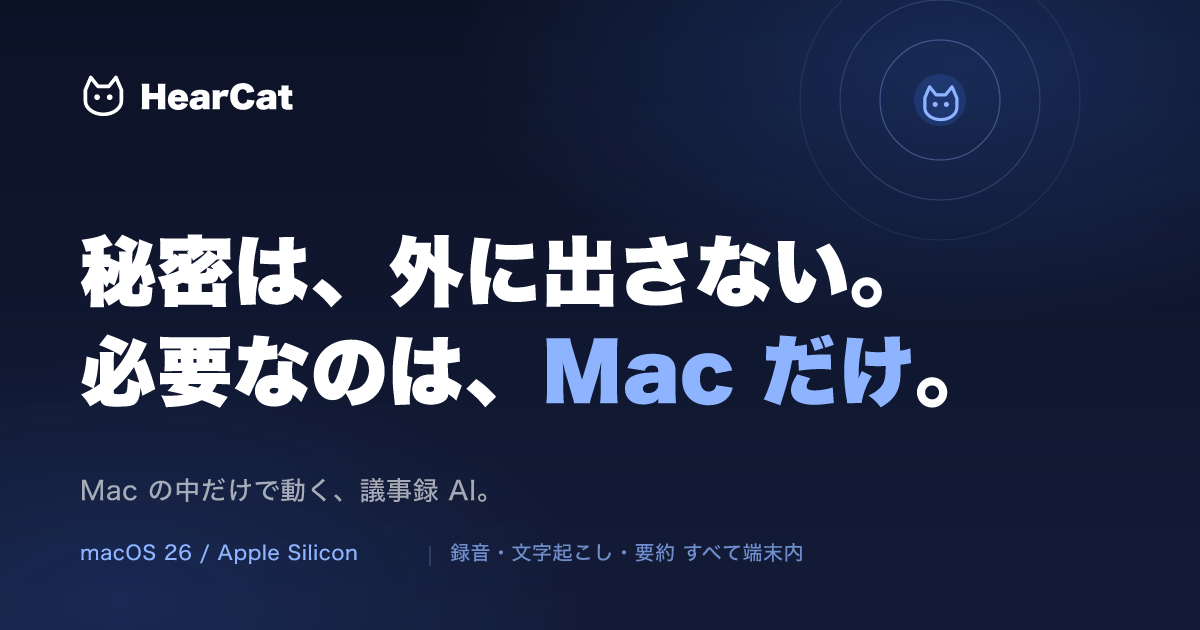
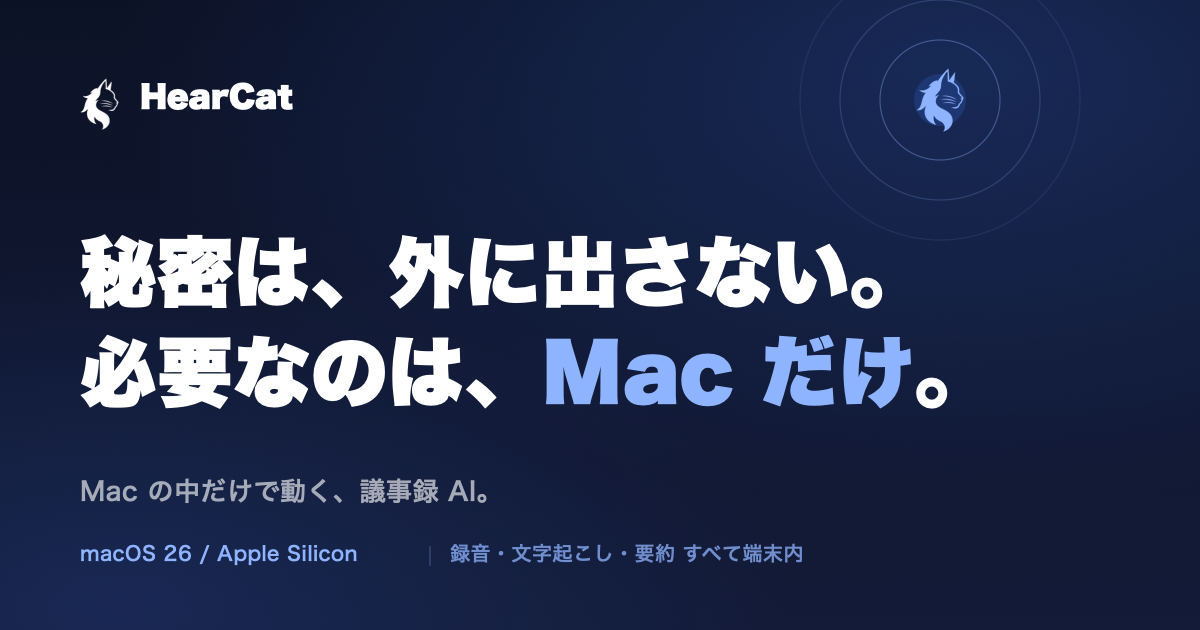
chore(ogp): OGP 画像を生成スクリプトに移す
これまで ogp.svg を手で書き出して ogp.png を作っていたため、マークを
変えても PNG が古いまま残る状態になっていた。アプリアイコンと同じく
Swift スクリプトから生成する形にし、make ogp で作り直せるようにする。

出所を一つに絞るため ogp.svg は削除する。

diff --git a/scripts/make_ogp.swift b/scripts/make_ogp.swift
@@ -1,0 +1,151 @@
+// OGP 画像(web/public/ogp.png, 1200x630)を生成する。地とコピーは LP と揃える。
+// 猫は design/brand/hearcat-logo.png(白 + アルファ)を着色して重ねる。実行: make ogp
+//
+// 以前は web/scripts/ogp.svg を手で書き出していたが、SVG のままだと
+// ブランド変更のたびに書き出しが必要で、実物とズレる。ここを唯一の出所にする。
+import AppKit
+import Foundation
+
+let W: CGFloat = 1200
+let H: CGFloat = 630
+
+let navy = NSColor(red: 0x0C / 255, green: 0x12 / 255, blue: 0x26 / 255, alpha: 1)
+let navy2 = NSColor(red: 0x13 / 255, green: 0x1B / 255, blue: 0x38 / 255, alpha: 1)
+let blue = NSColor(red: 0x3D / 255, green: 0x7B / 255, blue: 0xFF / 255, alpha: 1)
+let blueSoft = NSColor(red: 0x8F / 255, green: 0xB4 / 255, blue: 0xFF / 255, alpha: 1)
+
+/// 見出しは W9、本文は W5。LP は Zen Kaku Gothic New だが端末に無いため、
+/// 元の ogp.svg と同じく Hiragino を先に使う。
+func font(_ size: CGFloat, heavy: Bool) -> NSFont {
+    NSFont(name: heavy ? "HiraginoSans-W9" : "HiraginoSans-W5", size: size)
+        ?? .systemFont(ofSize: size, weight: heavy ? .black : .medium)
+}
+
+let logo: CGImage = {
+    let root = URL(fileURLWithPath: #filePath).deletingLastPathComponent().deletingLastPathComponent()
+    let url = root.appendingPathComponent("design/brand/hearcat-logo.png")
+    guard let src = CGImageSourceCreateWithURL(url as CFURL, nil),
+        let image = CGImageSourceCreateImageAtIndex(src, 0, nil)
+    else { fatalError("ロゴが読めない: \(url.path)") }
+    return image
+}()
+
+/// 楕円状のグロー。SVG の radialGradient(objectBoundingBox)に合わせて縦横別の半径を持つ。
+func glow(_ ctx: CGContext, center: CGPoint, rx: CGFloat, ry: CGFloat, alpha: CGFloat) {
+    let colors = [blue.withAlphaComponent(alpha).cgColor, blue.withAlphaComponent(0).cgColor] as CFArray
+    guard let g = CGGradient(colorsSpace: CGColorSpaceCreateDeviceRGB(), colors: colors, locations: [0, 1])
+    else { return }
+    ctx.saveGState()
+    ctx.translateBy(x: center.x, y: center.y)
+    ctx.scaleBy(x: 1, y: ry / rx)
+    ctx.drawRadialGradient(
+        g, startCenter: .zero, startRadius: 0, endCenter: .zero, endRadius: rx, options: [])
+    ctx.restoreGState()
+}
+
+/// 縦横比を保ったままロゴを高さ指定で描く。left は左端、baselineTop は上端。
+func drawLogo(_ ctx: CGContext, x: CGFloat, top: CGFloat, height: CGFloat, color: NSColor) {
+    let scale = height / CGFloat(logo.height)
+    let rect = CGRect(x: x, y: top, width: CGFloat(logo.width) * scale, height: height)
+    ctx.saveGState()
+    // 呼び出し元で y 下向きに反転しているため、画像を描く間だけ戻す。
+    ctx.translateBy(x: rect.minX, y: rect.maxY)
+    ctx.scaleBy(x: 1, y: -1)
+    let local = CGRect(x: 0, y: 0, width: rect.width, height: rect.height)
+    ctx.beginTransparencyLayer(auxiliaryInfo: nil)
+    ctx.draw(logo, in: local)
+    ctx.setBlendMode(.sourceIn)
+    ctx.setFillColor(color.cgColor)
+    ctx.fill(local)
+    ctx.setBlendMode(.normal)
+    ctx.endTransparencyLayer()
+    ctx.restoreGState()
+}
+
+func logoWidth(height: CGFloat) -> CGFloat {
+    height / CGFloat(logo.height) * CGFloat(logo.width)
+}
+
+/// 色の違う文言を1行に並べる。x はベースラインの左端。
+@discardableResult
+func drawRuns(_ runs: [(String, NSColor)], x: CGFloat, baseline: CGFloat, font f: NSFont, kern: CGFloat) -> CGFloat {
+    var cursor = x
+    for (text, color) in runs {
+        let attrs: [NSAttributedString.Key: Any] = [.font: f, .foregroundColor: color, .kern: kern]
+        let s = NSAttributedString(string: text, attributes: attrs)
+        // 反転済みコンテキストでは draw(at:) の y は行の上端。ベースラインから戻す。
+        s.draw(at: CGPoint(x: cursor, y: baseline - f.ascender))
+        cursor += s.size().width
+    }
+    return cursor
+}
+
+let rep = NSBitmapImageRep(
+    bitmapDataPlanes: nil, pixelsWide: Int(W), pixelsHigh: Int(H),
+    bitsPerSample: 8, samplesPerPixel: 4, hasAlpha: true, isPlanar: false,
+    colorSpaceName: .deviceRGB, bytesPerRow: 0, bitsPerPixel: 0)!
+let base = NSGraphicsContext(bitmapImageRep: rep)!
+let ctx = base.cgContext
+ctx.translateBy(x: 0, y: H)
+ctx.scaleBy(x: 1, y: -1)
+NSGraphicsContext.current = NSGraphicsContext(cgContext: ctx, flipped: true)
+
+// 地
+if let g = CGGradient(
+    colorsSpace: CGColorSpaceCreateDeviceRGB(),
+    colors: [navy.cgColor, navy2.cgColor] as CFArray, locations: [0, 1])
+{
+    ctx.drawLinearGradient(
+        g, start: CGPoint(x: W / 2, y: 0), end: CGPoint(x: W / 2, y: H), options: [])
+}
+glow(ctx, center: CGPoint(x: W * 0.8, y: H * 0.1), rx: W * 0.7, ry: H * 0.7, alpha: 0.22)
+glow(ctx, center: CGPoint(x: W * 0.1, y: H * 0.95), rx: W * 0.55, ry: H * 0.55, alpha: 0.14)
+
+// 右側の同心円と、その中の猫
+let ringCenter = CGPoint(x: 940, y: 100)
+ctx.setLineWidth(1.2)
+for (radius, alpha) in [(60.0, 0.35), (100.0, 0.2), (140.0, 0.1)] {
+    ctx.setStrokeColor(blueSoft.withAlphaComponent(alpha).cgColor)
+    ctx.strokeEllipse(
+        in: CGRect(x: ringCenter.x - radius, y: ringCenter.y - radius, width: radius * 2, height: radius * 2))
+}
+ctx.setFillColor(blue.withAlphaComponent(0.18).cgColor)
+ctx.fillEllipse(in: CGRect(x: ringCenter.x - 26, y: ringCenter.y - 26, width: 52, height: 52))
+let ringLogoH: CGFloat = 64
+drawLogo(
+    ctx, x: ringCenter.x - logoWidth(height: ringLogoH) / 2, top: ringCenter.y - ringLogoH / 2,
+    height: ringLogoH, color: blueSoft)
+
+// 左上のロゴとサービス名
+let headLogoH: CGFloat = 52
+drawLogo(ctx, x: 80, top: 108 - headLogoH / 2 - 4, height: headLogoH, color: .white)
+drawRuns([("HearCat", .white)], x: 140, baseline: 108, font: font(30, heavy: true), kern: 0)
+
+// 見出し
+drawRuns([("秘密は、外に出さない。", .white)], x: 80, baseline: 300, font: font(76, heavy: true), kern: 1)
+drawRuns(
+    [("必要なのは、", .white), ("Mac だけ", blueSoft), ("。", .white)],
+    x: 80, baseline: 400, font: font(76, heavy: true), kern: 1)
+
+// 説明
+drawRuns(
+    [("Mac の中だけで動く、議事録 AI。", NSColor.white.withAlphaComponent(0.62))],
+    x: 80, baseline: 500, font: font(26, heavy: false), kern: 0.5)
+
+// 脚注
+drawRuns([("macOS 26 / Apple Silicon", blueSoft)], x: 80, baseline: 560, font: font(20, heavy: false), kern: 0.5)
+ctx.setStrokeColor(blueSoft.withAlphaComponent(0.4).cgColor)
+ctx.setLineWidth(1)
+ctx.move(to: CGPoint(x: 430, y: 546))
+ctx.addLine(to: CGPoint(x: 430, y: 566))
+ctx.strokePath()
+drawRuns(
+    [("録音・文字起こし・要約 すべて端末内", blueSoft.withAlphaComponent(0.75))],
+    x: 450, baseline: 560, font: font(20, heavy: false), kern: 0.5)
+
+NSGraphicsContext.current = nil
+let output = URL(
+    fileURLWithPath: CommandLine.arguments.count > 1 ? CommandLine.arguments[1] : "web/public/ogp.png")
+guard let png = rep.representation(using: .png, properties: [:]) else { fatalError("PNG 変換失敗") }
+try png.write(to: output)
+print("生成: \(output.path)")
